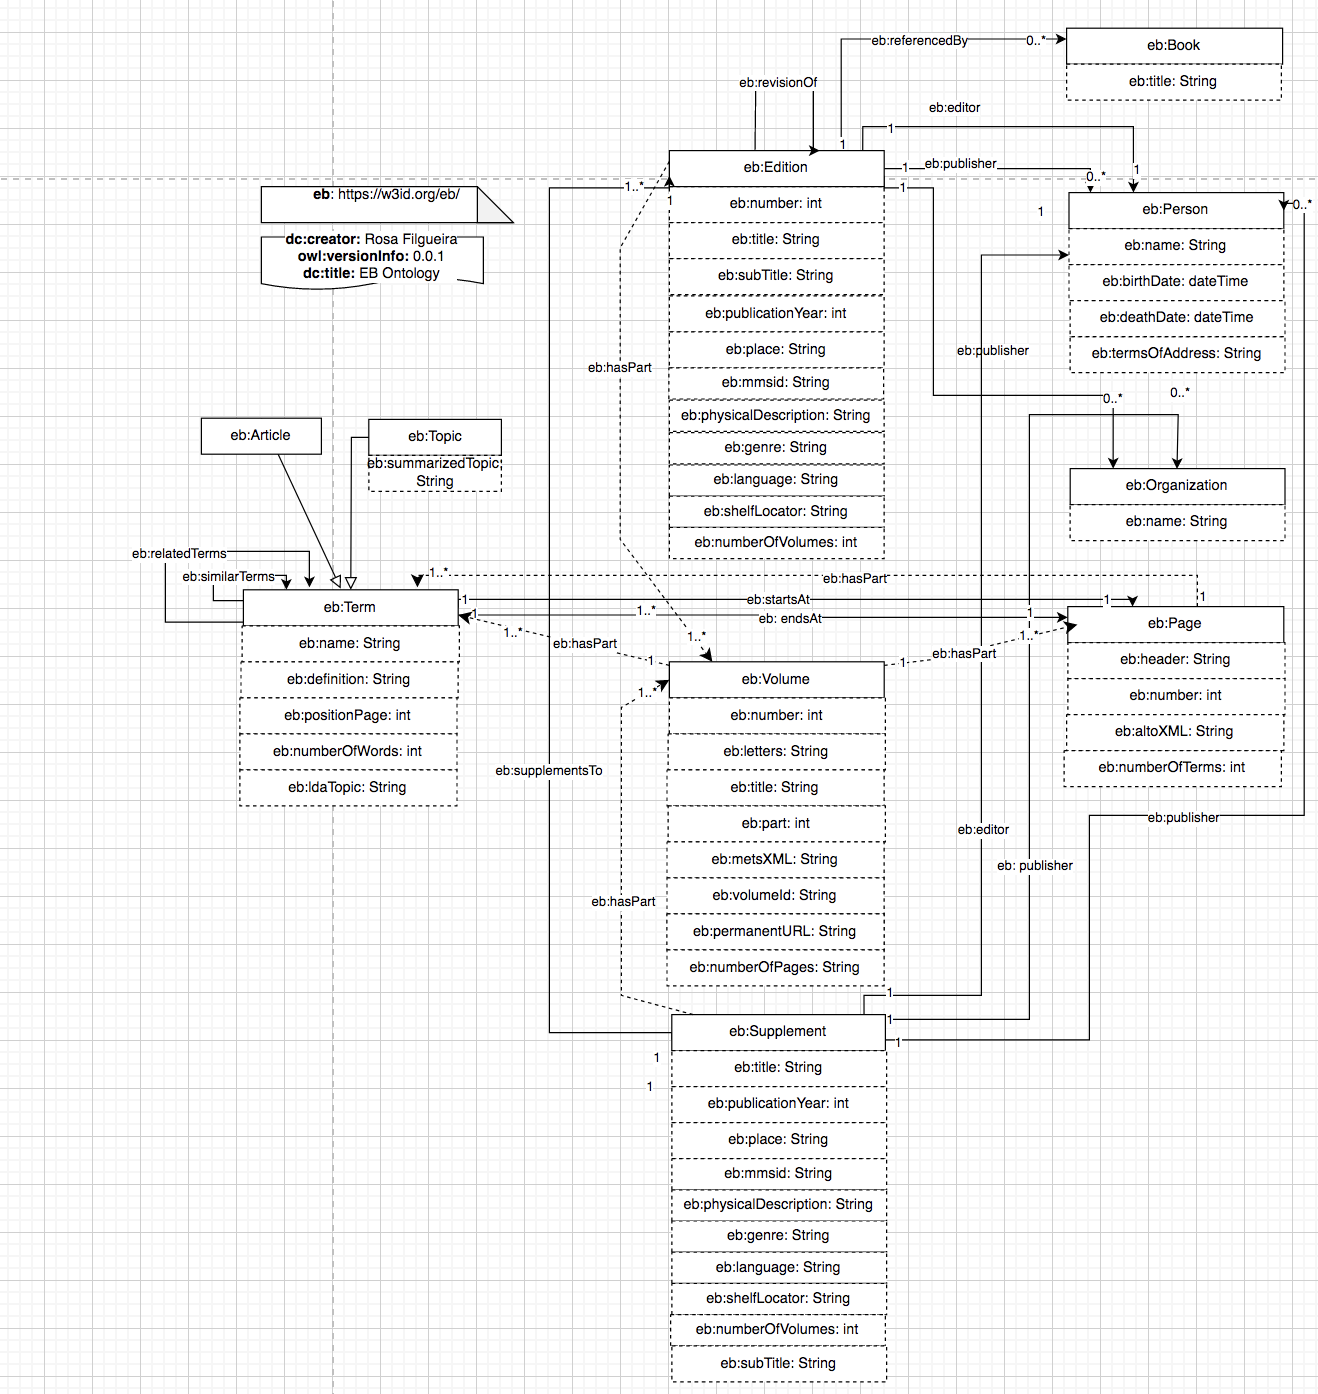
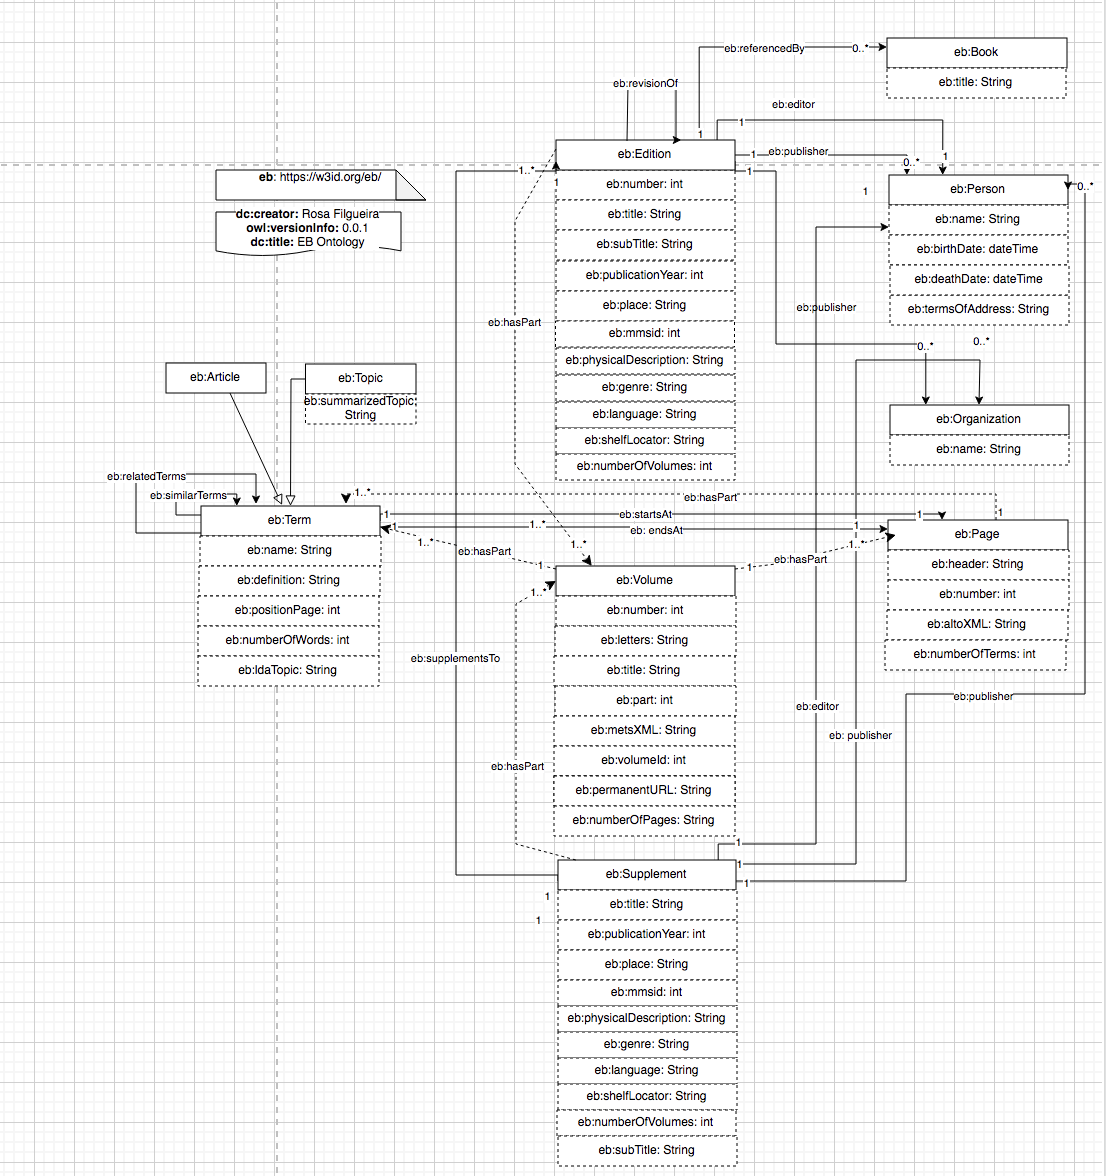
updates

diff --git a/doc/index-en.html b/doc/index-en.html
@@ -6,7 +6,7 @@
 
 
 <!-- SCHEMA.ORG METADATA -->
-<script type="application/ld+json">{"@context":"https://schema.org","@type":"TechArticle","url":"https://w3id.org/eb","image":"http://vowl.visualdataweb.org/webvowl/#iri=https://w3id.org/eb","name":"EB Ontology", "headline":"An ontology designed to represent volumes, terms and editions of the Encyclopaedia Britannica. The ontology extends Schema.org.", "datePublished":"Tue Nov 02 10:13:14 GMT 2021", "version":"0.0.2", "author":[{"@type":"Person","name":"Rosa Filgueira"}], "contributor":[{"@type":"Person","name":"Daniel Garijo"}]}</script>
+<script type="application/ld+json">{"@context":"https://schema.org","@type":"TechArticle","url":"https://w3id.org/eb","image":"http://vowl.visualdataweb.org/webvowl/#iri=https://w3id.org/eb","name":"EB Ontology", "headline":"An ontology designed to represent volumes, terms and editions of the Encyclopaedia Britannica. The ontology extends Schema.org.", "datePublished":"Tue Nov 02 13:14:08 GMT 2021", "version":"0.0.2", "author":[{"@type":"Person","name":"Rosa Filgueira"}], "contributor":[{"@type":"Person","name":"Daniel Garijo"}]}</script>
 
 <script src="resources/jquery.js"></script> 
 <script src="resources/marked.min.js"></script> 

diff --git a/doc/sections/crossref-en.html b/doc/sections/crossref-en.html
@@ -994,9 +994,9 @@ This section provides details for each class and property defined by EB Ontology
             </dd>
             <dt>has range</dt>
             <dd>
-               <a href="http://www.w3.org/2001/XMLSchema#string"
+               <a href="http://www.w3.org/2001/XMLSchema#int"
                   target="_blank"
-                  title="http://www.w3.org/2001/XMLSchema#string">string</a>
+                  title="http://www.w3.org/2001/XMLSchema#int">int</a>
             </dd>
          </dl>
       </div>
@@ -1473,9 +1473,9 @@ This section provides details for each class and property defined by EB Ontology
             </dd>
             <dt>has range</dt>
             <dd>
-               <a href="http://www.w3.org/2001/XMLSchema#string"
+               <a href="http://www.w3.org/2001/XMLSchema#int"
                   target="_blank"
-                  title="http://www.w3.org/2001/XMLSchema#string">string</a>
+                  title="http://www.w3.org/2001/XMLSchema#int">int</a>
             </dd>
          </dl>
       </div>
